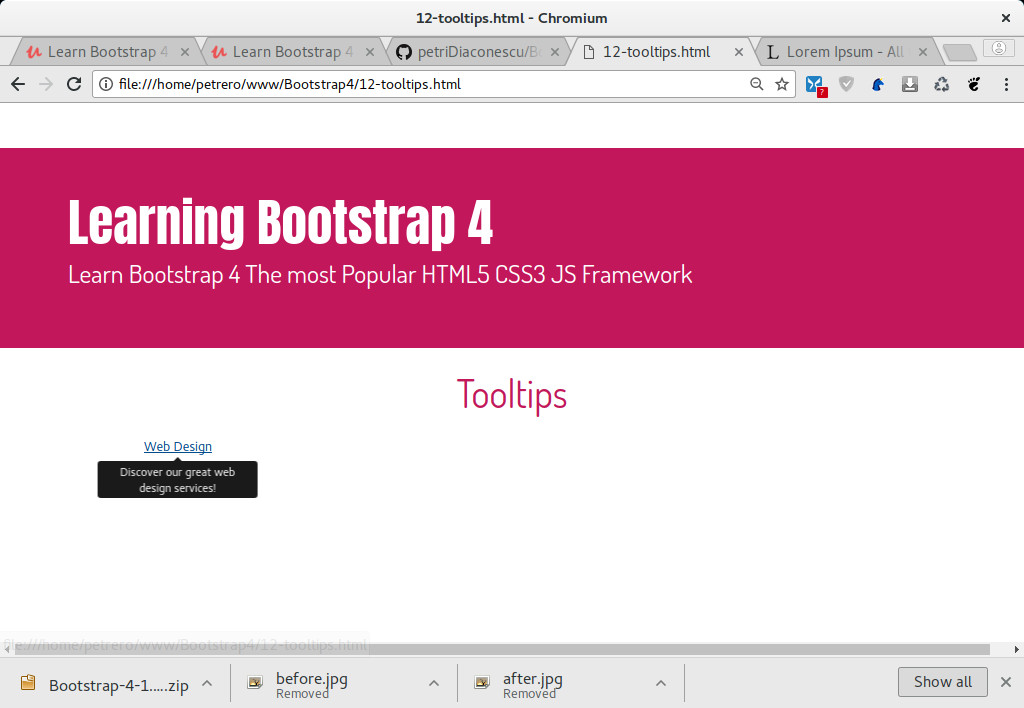
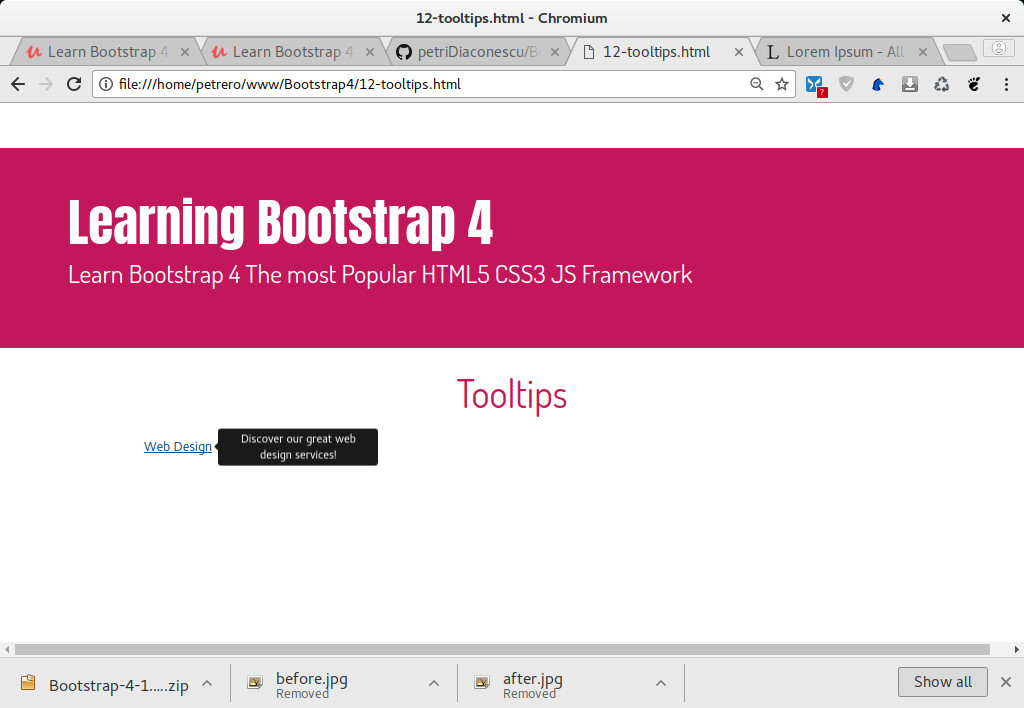
Place the tooltip to the right

Changed region(s): [[0.0938, 0.5904, 0.375, 0.7147]]

diff --git a/12-tooltips.html b/12-tooltips.html
@@ -45,7 +45,7 @@
     <script type="text/javascript">
       $(document).ready(function(){
         $('[data-toggle="tooltip"]').tooltip({
-          placement: 'bottom',
+          placement: 'right',
           trigger: 'hover'
         });
       });
